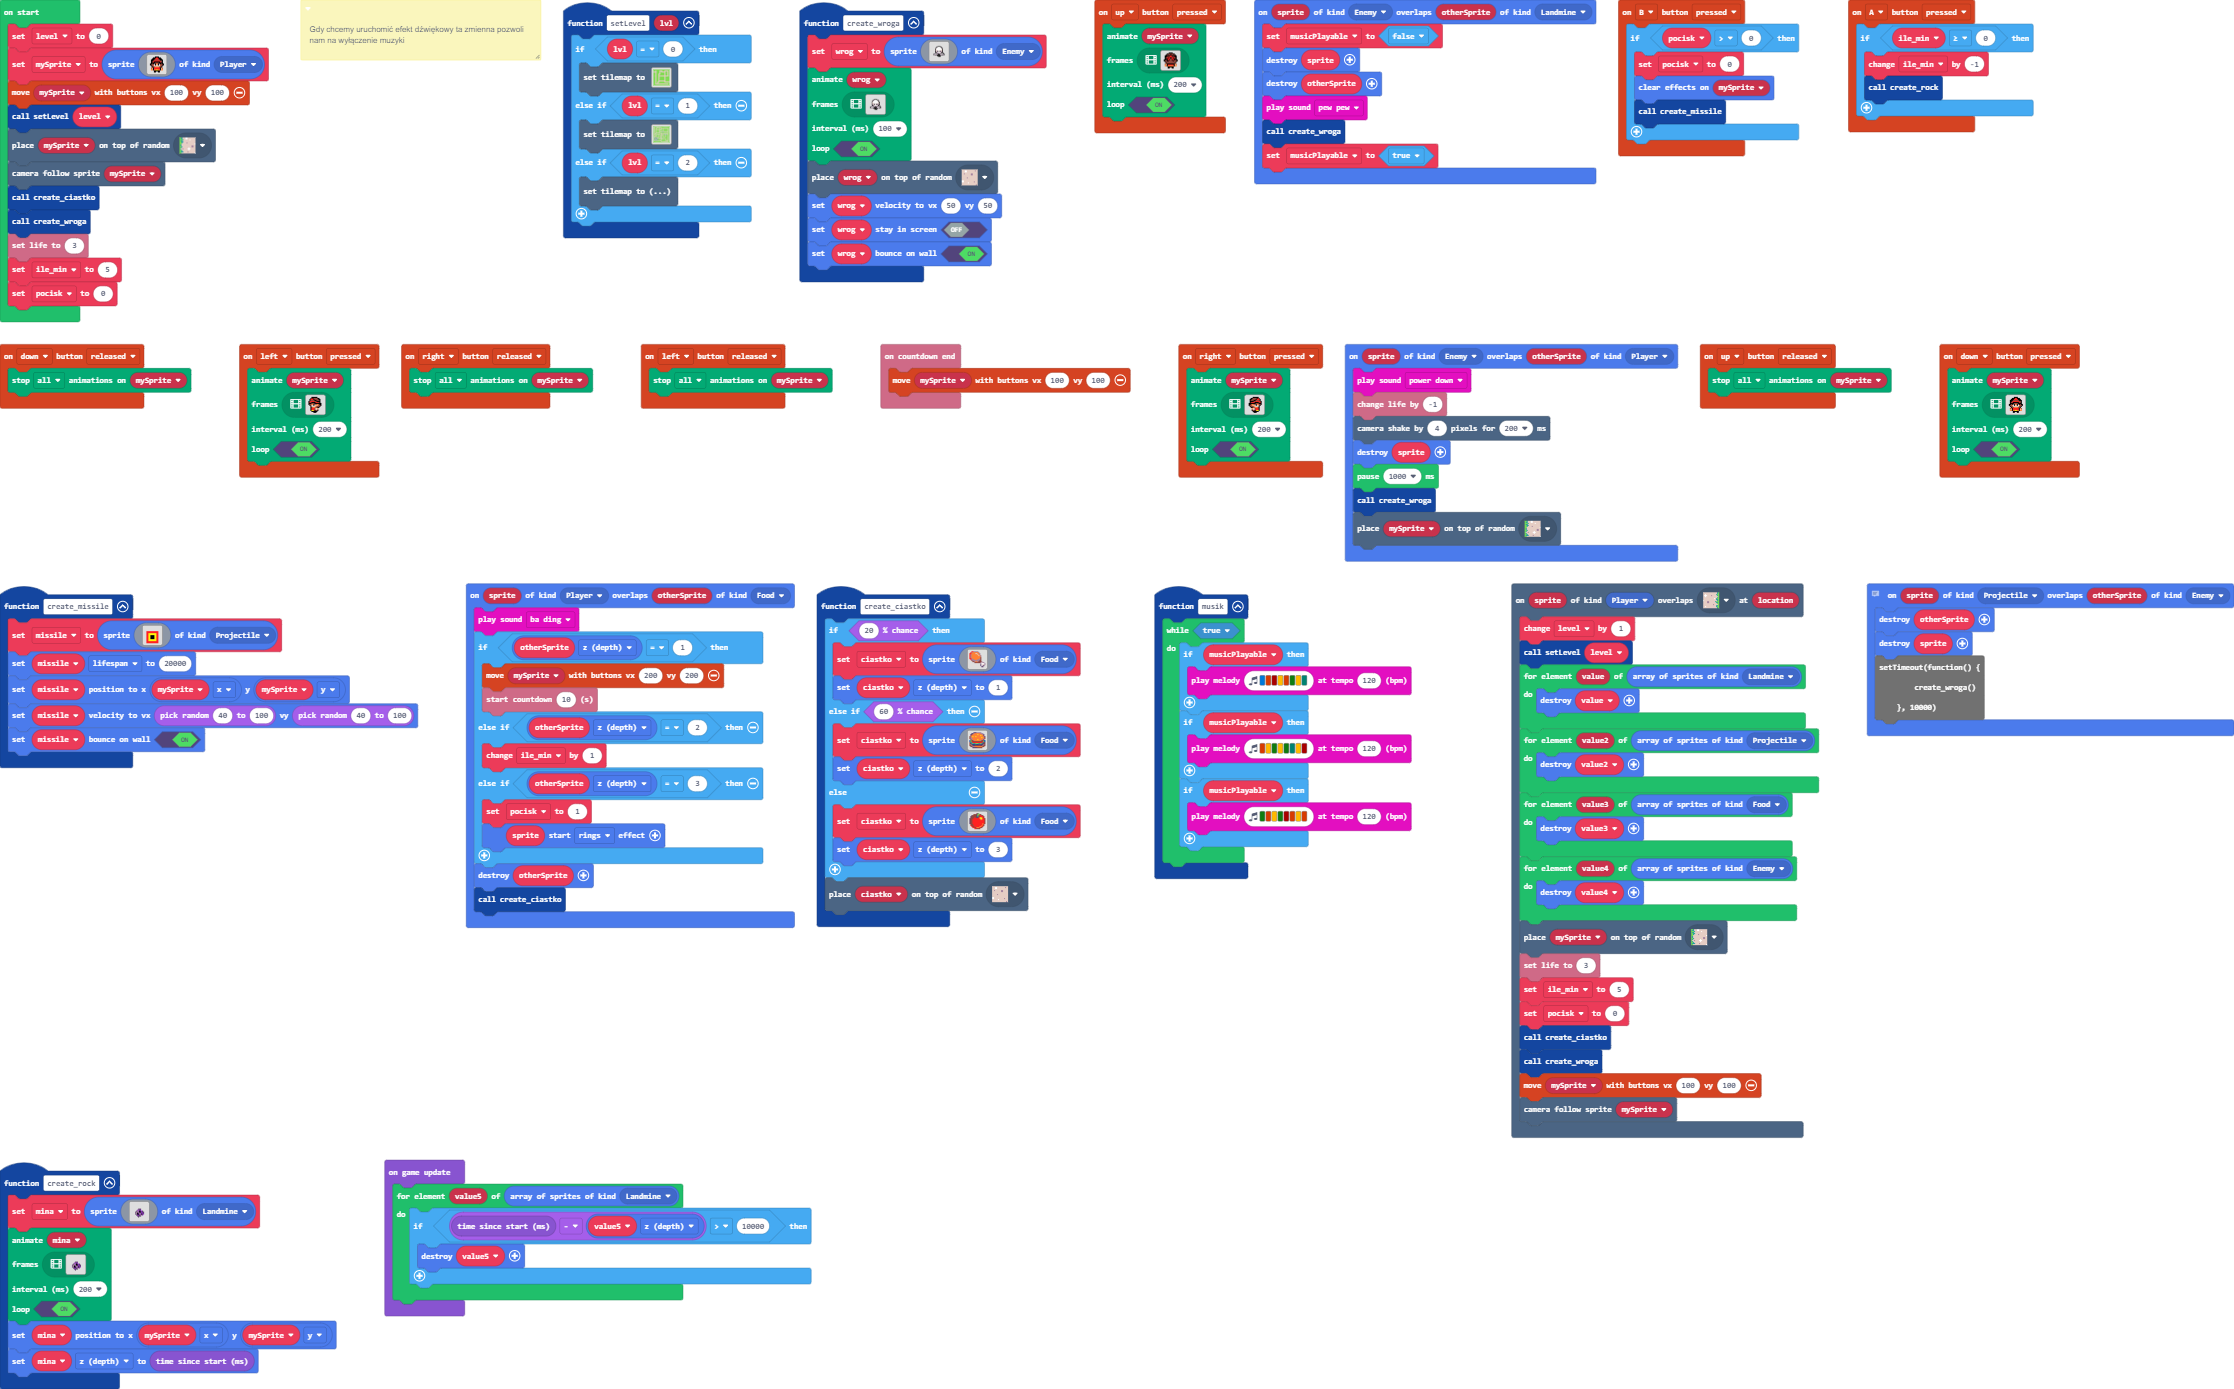
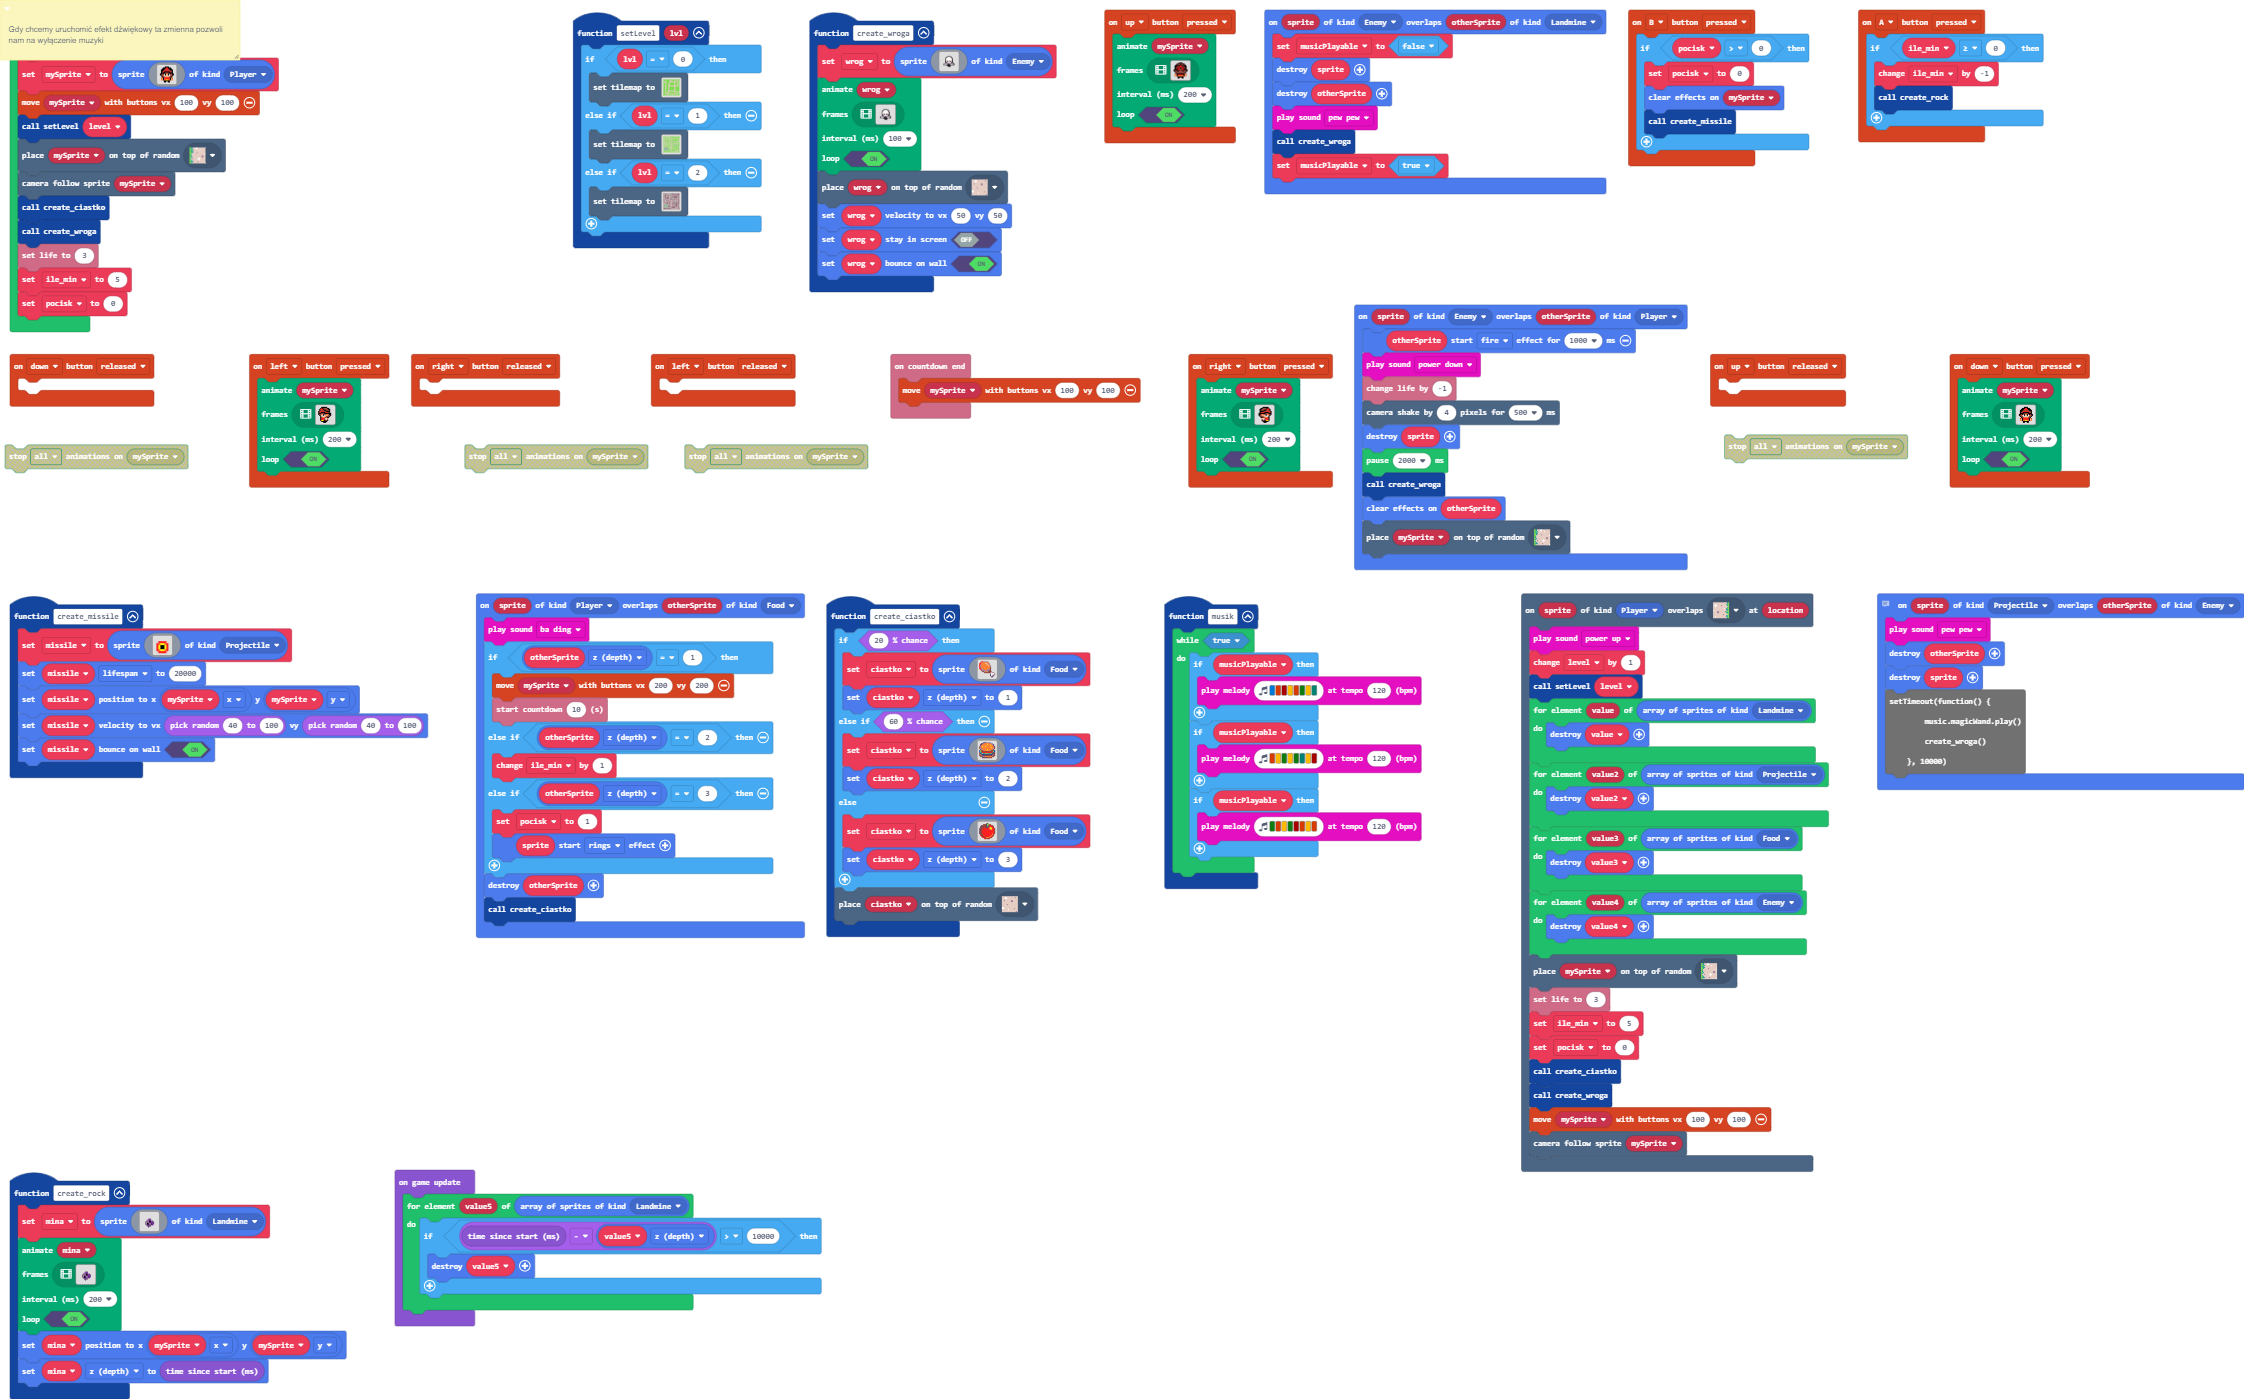
poprawki w levelach

diff --git a/tilemap.g.ts b/tilemap.g.ts
@@ -25,7 +25,7 @@ namespace myTiles {
 2 2 2 2 2 2 2 2 2 2 2 2 2 2 2 2 
 `, [myTiles.transparency16,sprites.castle.tileGrass1,sprites.castle.tileGrass3,sprites.castle.tilePath4,sprites.castle.tilePath5,sprites.castle.tilePath6,sprites.castle.tileGrass2], TileScale.Sixteen);
             case "level2":
[2 lines of base64/hex data omitted]
 222222222222222222222222222222
 22.222...22....222222222222222
 ...222.2....22.222222222222222
@@ -48,7 +48,7 @@ namespace myTiles {
 2.22222222.22.2.22.222.2222.22
 2..........22.2.22.....2222.22
 2.22222.22222.2.22222222222.22
-2.22..2.......2.22222222222.22
+2.22..2.......2.22222222222...
 2.22.22.222222..........222.22
 2.2.....222222.22222222.222.22
 2.222222222222.22222222.222.22
@@ -56,7 +56,59 @@ namespace myTiles {
 22222222222222.222222222222.22
 22222222222222..............22
 222222222222222222222222222222
-`, [myTiles.transparency16,sprites.castle.tileGrass1,sprites.castle.tileGrass3,sprites.castle.tilePath4,sprites.castle.tilePath5,sprites.castle.tileGrass2,sprites.builtin.forestTiles0], TileScale.Sixteen);
+`, [myTiles.transparency16,sprites.castle.tileGrass1,sprites.castle.tileGrass3,sprites.castle.tilePath4,sprites.castle.tilePath5,sprites.castle.tileGrass2,sprites.builtin.forestTiles0,sprites.castle.tilePath6], TileScale.Sixteen);
+            case "level4":
+            case "level3":return tiles.createTilemap(hex`1000100000000000000000000000000000000000000000000000000000000000000000000000000000000000000000000000000000000000000000000000000000000000000000000000000000000000000000000000000000000000000000000000000000000000000000000000000000000000000000000000000000000000000000000000000000000000000000000000000000000000000000000000000000000000000000000000000000000000000000000000000000000000000000000000000000000000000000000000000000000000000000000000000000000000000000000000000000000000000000000000000000000000000000000000000000000000`, img`
+. . . . . . . . . . . . . . . . 
+. . . . . . . . . . . . . . . . 
+. . . . . . . . . . . . . . . . 
+. . . . . . . . . . . . . . . . 
+. . . . . . . . . . . . . . . . 
+. . . . . . . . . . . . . . . . 
+. . . . . . . . . . . . . . . . 
+. . . . . . . . . . . . . . . . 
+. . . . . . . . . . . . . . . . 
+. . . . . . . . . . . . . . . . 
+. . . . . . . . . . . . . . . . 
+. . . . . . . . . . . . . . . . 
+. . . . . . . . . . . . . . . . 
+. . . . . . . . . . . . . . . . 
+. . . . . . . . . . . . . . . . 
+. . . . . . . . . . . . . . . . 
+`, [myTiles.transparency16], TileScale.Sixteen);
+            case "level0":
[1 lines of base64/hex data omitted]
+222222222222222222222222222222
+22.222...22....222222222222222
+...222.2....22.222222222222222
+22.222.2222.22..............22
+22.22..2222.22.222.22222222.22
+22.22.22222.22.222.22222222.22
+22.22..........222.22222222.22
+22.22.22222.222222.22222222.22
+22.22.22222.222222.22222222.22
+22.22.22222.................22
+22.22.22222.222222222222222.22
+22.22.......222222222222222.22
+22.2..22222.................22
+22.2.2222222222.22222222222.22
+2...........................22
+2.22222222.2222.222222.2222.22
+2.....2222.22......222.2222.22
+22222.2222.22.2.22.222.2222.22
+2.....2222.22.2.22.222.2222.22
+2.22222222.22.2.22.222.2222.22
+2..........22.2.22.....2222.22
+2.22222.22222.2.22222222222.22
+2.22..2.......2.22222222222...
+2.22.22.222222..........222.22
+2.2.....222222.22222222.222.22
+2.222222222222.22222222.222.22
+2..............22222222.....22
+22222222222222.222222222222.22
+22222222222222..............22
+222222222222222222222222222222
+`, [myTiles.transparency16,sprites.castle.tilePath4,sprites.builtin.forestTiles0,sprites.builtin.forestTiles26,sprites.builtin.forestTiles11,sprites.builtin.forestTiles6,sprites.builtin.forestTiles12,sprites.builtin.forestTiles16,sprites.builtin.forestTiles4,sprites.castle.tilePath5,sprites.castle.tilePath6], TileScale.Sixteen);
         }
         return null;
     })

diff --git a/main.ts b/main.ts
@@ -1,5 +1,4 @@
 namespace SpriteKind {
-    export const tttt = SpriteKind.create()
     export const Landmine = SpriteKind.create()
 }
 function setLevel (lvl: number) {
@@ -8,7 +7,7 @@ function setLevel (lvl: number) {
     } else if (lvl == 1) {
         tiles.setTilemap(tilemap`level2`)
     } else if (lvl == 2) {
-        tiles.setTilemap(tilemap`level3`)
+        tiles.setTilemap(tilemap`level0`)
     }
 }
 function create_wroga () {
@@ -247,7 +246,7 @@ controller.A.onEvent(ControllerButtonEvent.Pressed, function () {
     }
 })
 controller.down.onEvent(ControllerButtonEvent.Released, function () {
-    animation.stopAnimation(animation.AnimationTypes.All, mySprite)
+	
 })
 controller.left.onEvent(ControllerButtonEvent.Pressed, function () {
     animation.runImageAnimation(
@@ -326,10 +325,10 @@ controller.left.onEvent(ControllerButtonEvent.Pressed, function () {
     )
 })
 controller.right.onEvent(ControllerButtonEvent.Released, function () {
-    animation.stopAnimation(animation.AnimationTypes.All, mySprite)
+	
 })
 controller.left.onEvent(ControllerButtonEvent.Released, function () {
-    animation.stopAnimation(animation.AnimationTypes.All, mySprite)
+	
 })
 info.onCountdownEnd(function () {
     controller.moveSprite(mySprite, 100, 100)
@@ -411,16 +410,18 @@ controller.right.onEvent(ControllerButtonEvent.Pressed, function () {
     )
 })
 sprites.onOverlap(SpriteKind.Enemy, SpriteKind.Player, function (sprite, otherSprite) {
+    otherSprite.startEffect(effects.fire, 1000)
     music.powerDown.play()
     info.changeLifeBy(-1)
-    scene.cameraShake(4, 200)
+    scene.cameraShake(4, 500)
     sprite.destroy()
-    pause(1000)
+    pause(2000)
     create_wroga()
+    effects.clearParticles(otherSprite)
     tiles.placeOnRandomTile(mySprite, sprites.castle.tilePath4)
 })
 controller.up.onEvent(ControllerButtonEvent.Released, function () {
-    animation.stopAnimation(animation.AnimationTypes.All, mySprite)
+	
 })
 controller.down.onEvent(ControllerButtonEvent.Pressed, function () {
     animation.runImageAnimation(
@@ -502,12 +503,12 @@ function create_missile () {
     missile = sprites.create(img`
         . . . . . . . . 
         . . . . . . . . 
-        . 2 2 2 2 2 2 . 
-        . 2 5 5 5 5 2 . 
+        . d 2 2 2 2 d . 
+        . 2 4 5 5 4 2 . 
         . 2 5 f f 5 2 . 
         . 2 5 f f 5 2 . 
-        . 2 5 5 5 5 2 . 
-        . 2 2 2 2 2 2 . 
+        . 2 4 5 5 4 2 . 
+        . d 2 2 2 2 d . 
         `, SpriteKind.Projectile)
     missile.lifespan = 20000
     missile.setPosition(mySprite.x, mySprite.y)
@@ -606,6 +607,7 @@ function musik () {
     }
 }
 scene.onOverlapTile(SpriteKind.Player, sprites.castle.tilePath6, function (sprite, location) {
+    music.powerUp.play()
     level += 1
     setLevel(level)
     for (let value of sprites.allOfKind(SpriteKind.Landmine)) {
@@ -631,9 +633,11 @@ scene.onOverlapTile(SpriteKind.Player, sprites.castle.tilePath6, function (sprit
 })
 // gfdhfhgdhdhf
 sprites.onOverlap(SpriteKind.Projectile, SpriteKind.Enemy, function (sprite, otherSprite) {
+    music.pewPew.play()
     otherSprite.destroy()
     sprite.destroy()
     setTimeout(function() {
+        music.magicWand.play()
         create_wroga()
     }, 10000)
 })

diff --git a/images.g.ts b/images.g.ts
@@ -3,7 +3,7 @@ namespace myImages {
 
     helpers._registerFactory("image", function(name: string) {
         switch(helpers.stringTrim(name)) {
-            case "image6":return img`
+            case "image8":return img`
 ........................
 ........................
 ........................
@@ -29,17 +29,7 @@ namespace myImages {
 ........................
 ........................
 `;
-            case "image7":return img`
-. . . . . . . . 
-. . . . . . . . 
-. 2 2 2 2 2 2 . 
-. 2 5 5 5 5 2 . 
-. 2 5 f f 5 2 . 
-. 2 5 f f 5 2 . 
-. 2 5 5 5 5 2 . 
-. 2 2 2 2 2 2 . 
-`;
-            case "image8":return img`
+            case "image10":return img`
 . . . . . . . . . . . . . . . . 
 . . . . . . . . . . . . . . . . 
 . . . . . . . . . . . . . . . . 
@@ -57,7 +47,7 @@ namespace myImages {
 . . . . . . . . . . . . . . . . 
 . . . . . . . . . . . . . . . . 
 `;
-            case "image9":return img`
+            case "image11":return img`
 . . 2 2 b b b b b . . . . . . . 
 . 2 b 4 4 4 4 4 4 b . . . . . . 
 2 2 4 4 4 4 d d 4 4 b . . . . . 
@@ -75,7 +65,7 @@ namespace myImages {
 . . . . . . . . . . . c 1 b c . 
 . . . . . . . . . . . . c c . . 
 `;
-            case "image10":return img`
+            case "image12":return img`
 . . . . c c c b b b b b . . . . 
 . . c c b 4 4 4 4 4 4 b b b . . 
 . c c 4 4 4 4 4 5 4 4 4 4 b c . 
@@ -93,7 +83,7 @@ e e b e c c e e e e e c e b e e
 . e e b b 4 4 4 4 4 4 4 4 e e . 
 . . . c c c c c e e e e e . . . 
 `;
-            case "image11":return img`
+            case "image13":return img`
 . . . . . . . e c 7 . . . . . . 
 . . . . e e e c 7 7 e e . . . . 
 . . c e e e e c 7 e 2 2 e e . . 
@@ -111,7 +101,7 @@ c e e 2 2 2 2 2 2 2 2 2 2 4 2 e
 . . . 2 2 e e 4 4 4 2 e e . . . 
 . . . . . 2 2 e e e e . . . . . 
 `;
-            case "image12":return img`
+            case "image14":return img`
 . . . . . . f f f f . . . . . . 
 . . . . f f f 2 2 f f f . . . . 
 . . . f f f 2 2 2 2 f f f . . . 
@@ -128,6 +118,16 @@ c e e 2 2 2 2 2 2 2 2 2 2 4 2 e
 . . 4 4 f 4 4 5 5 4 4 f 4 4 . . 
 . . . . . f f f f f f . . . . . 
 . . . . . f f . . f f . . . . . 
+`;
+            case "image9":return img`
+. . . . . . . . 
+. . . . . . . . 
+. d 2 2 2 2 d . 
+. 2 4 5 5 4 2 . 
+. 2 5 f f 5 2 . 
+. 2 5 f f 5 2 . 
+. 2 4 5 5 4 2 . 
+. d 2 2 2 2 d . 
 `;
             case "image1":return img`
 ........................
@@ -219,7 +219,7 @@ e e b e c c e e e e e c e b e e
 . e e b b 4 4 4 4 4 4 4 4 e e . 
 . . . c c c c c e e e e e . . . 
 `;
-            case "image13":return img`
+            case "image6":return img`
 . . . . . . . e c 7 . . . . . . 
 . . . . e e e c 7 7 e e . . . . 
 . . c e e e e c 7 e 2 2 e e . . 
@@ -237,7 +237,7 @@ c e e 2 2 2 2 2 2 2 2 2 2 4 2 e
 . . . 2 2 e e 4 4 4 2 e e . . . 
 . . . . . 2 2 e e e e . . . . . 
 `;
-            case "image14":return img`
+            case "image7":return img`
 . . . . . . f f f f . . . . . . 
 . . . . f f f 2 2 f f f . . . . 
 . . . f f f 2 2 2 2 f f f . . . 
